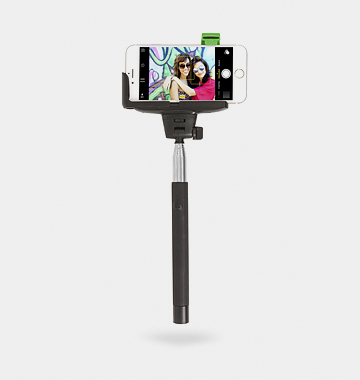
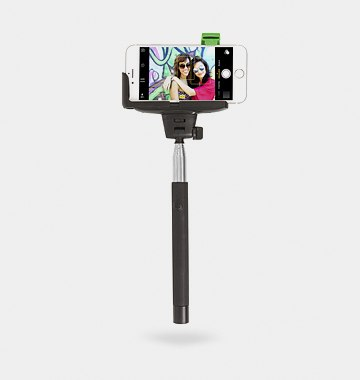
convert content img to progressive jpg; change alt text

Changed region(s): [[0.3972, 0.0868, 0.6111, 0.2605]]

diff --git a/catalog.html b/catalog.html
@@ -82,7 +82,7 @@
               <img src="img/item-1.jpg"
                    width="360"
                    height="380"
-                   alt="Любительская селфи-палка">
+                   alt="Селфи-палка со смартфоном">
               <h2>Любительская селфи-палка</h2>
               <span>500 руб.</span>
             </li>
@@ -92,7 +92,7 @@
               <img src="img/item-2.jpg"
                    width="360"
                    height="380"
-                   alt="">
+                   alt="Селфи-палка в сложенном виде">
               <h3>
                 Профессиональная<br>
                 селфи-палка
@@ -105,8 +105,11 @@
               <img src="img/item-3.jpg"
                    width="360"
                    height="380"
-                   alt="">
-              <h3>Непотопляемая селфи-палка</h3>
+                   alt="Селфи-палка с прикрепленной экшн камерой
+                        и веревочкой для кисти">
+              <h3>
+                Непотопляемая селфи-палка
+              </h3>
               <span>2500 руб.</span>
             </li>
             <li>
@@ -115,7 +118,8 @@
               <img src="img/item-4.jpg"
                    width="360"
                    height="380"
-                   alt="">
+                   alt="Селфи-палка со смартфоном и
+                        штативом в виде руки">
               <h3>
                 Селфи-палка «Следуй за<br>
                 мной»

diff --git a/index.html b/index.html
@@ -264,7 +264,7 @@
           <img src="img/map.png"
                width="560"
                height="222"
-               alt="Как нас найти">
+               alt="Карта с маркером Москва улица Строителй 15">
         </figure>
         <a href="blank.html">напишите нам</a>
       </section>
